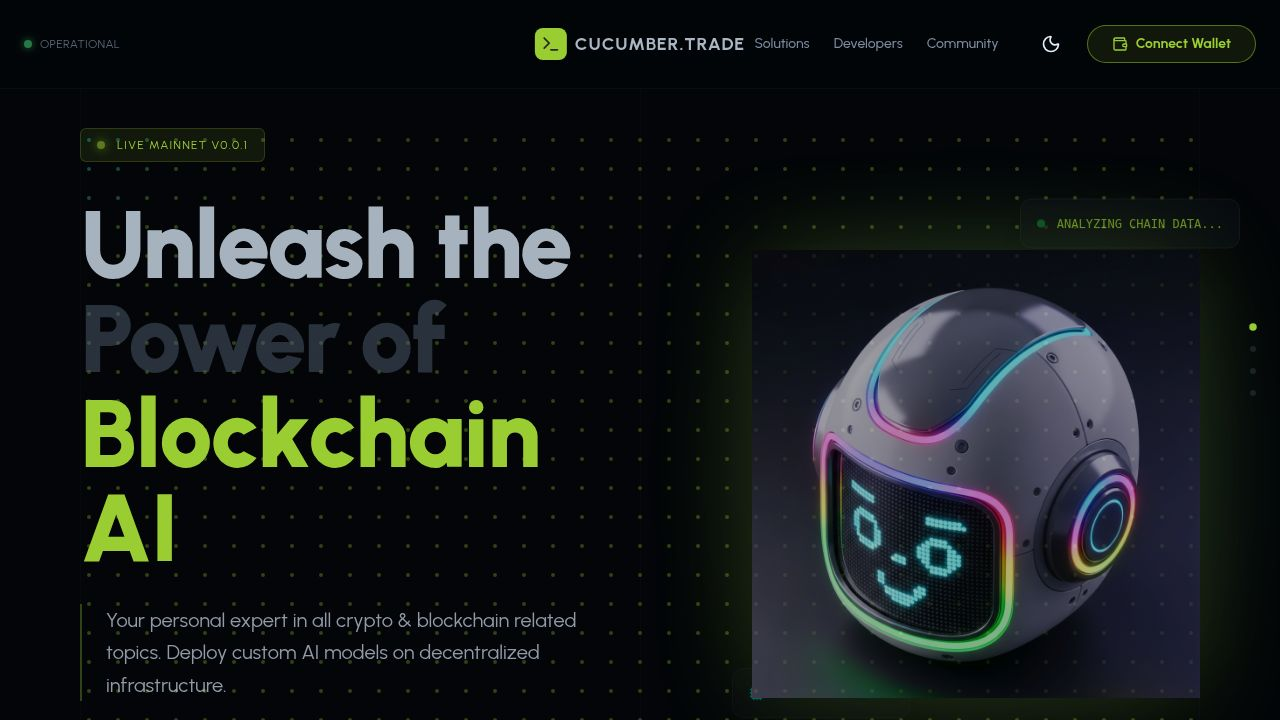
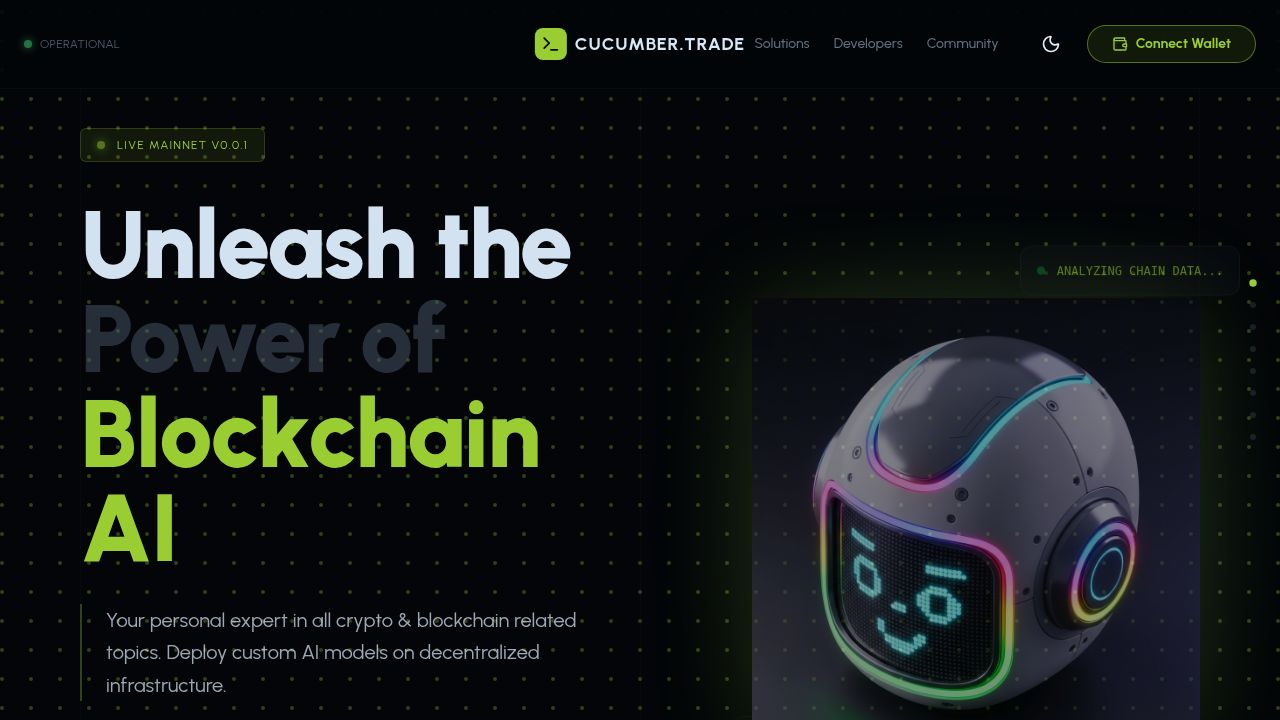
Move scroll indicator to the top of the hero section
Relocate the "SCROLL FOR MORE" indicator from the bottom of the page to the hero section, immediately below the call-to-action buttons.

Replit-Commit-Author: Agent
Replit-Commit-Session-Id: 59a02ef8-562e-42da-93fc-abd59ecd78d8
Replit-Commit-Checkpoint-Type: full_checkpoint
Replit-Commit-Event-Id: 6d776721-c467-4550-a84c-52761fdb33f8
Replit-Commit-Screenshot-Url: https://storage.googleapis.com/screenshot-production-us-central1/fe1ac308-d7d1-465c-b90f-86d3b55f72a5/59a02ef8-562e-42da-93fc-abd59ecd78d8/Qirv4Fv
Replit-Helium-Checkpoint-Created: true

diff --git a/client/src/pages/retro-landing.tsx b/client/src/pages/retro-landing.tsx
@@ -108,6 +108,12 @@ export default function CyberLanding() {
                         Documentation
                     </button>
                 </div>
+
+                {/* Scroll Indicator */}
+                <div className="flex items-center gap-4 pt-10 opacity-70">
+                     <p className="text-xs font-mono text-cyber-dim tracking-widest">SCROLL FOR MORE</p>
+                     <div className="h-px w-20 bg-gradient-to-r from-cyber-primary to-transparent"></div>
+                </div>
             </div>
 
             {/* Right Visual - Sticky / Fixed feel */}
@@ -433,11 +439,6 @@ export default function CyberLanding() {
                 </div>
             </div>
 
-            {/* Scroll Indicator at bottom */}
-            <div className="flex flex-col items-center justify-center pt-20 pb-10 opacity-50">
-                 <p className="text-sm font-mono mb-4 text-cyber-dim">SCROLL FOR MORE</p>
-                 <div className="w-px h-16 bg-gradient-to-b from-cyber-primary to-transparent"></div>
-            </div>
 
         </div>
 
